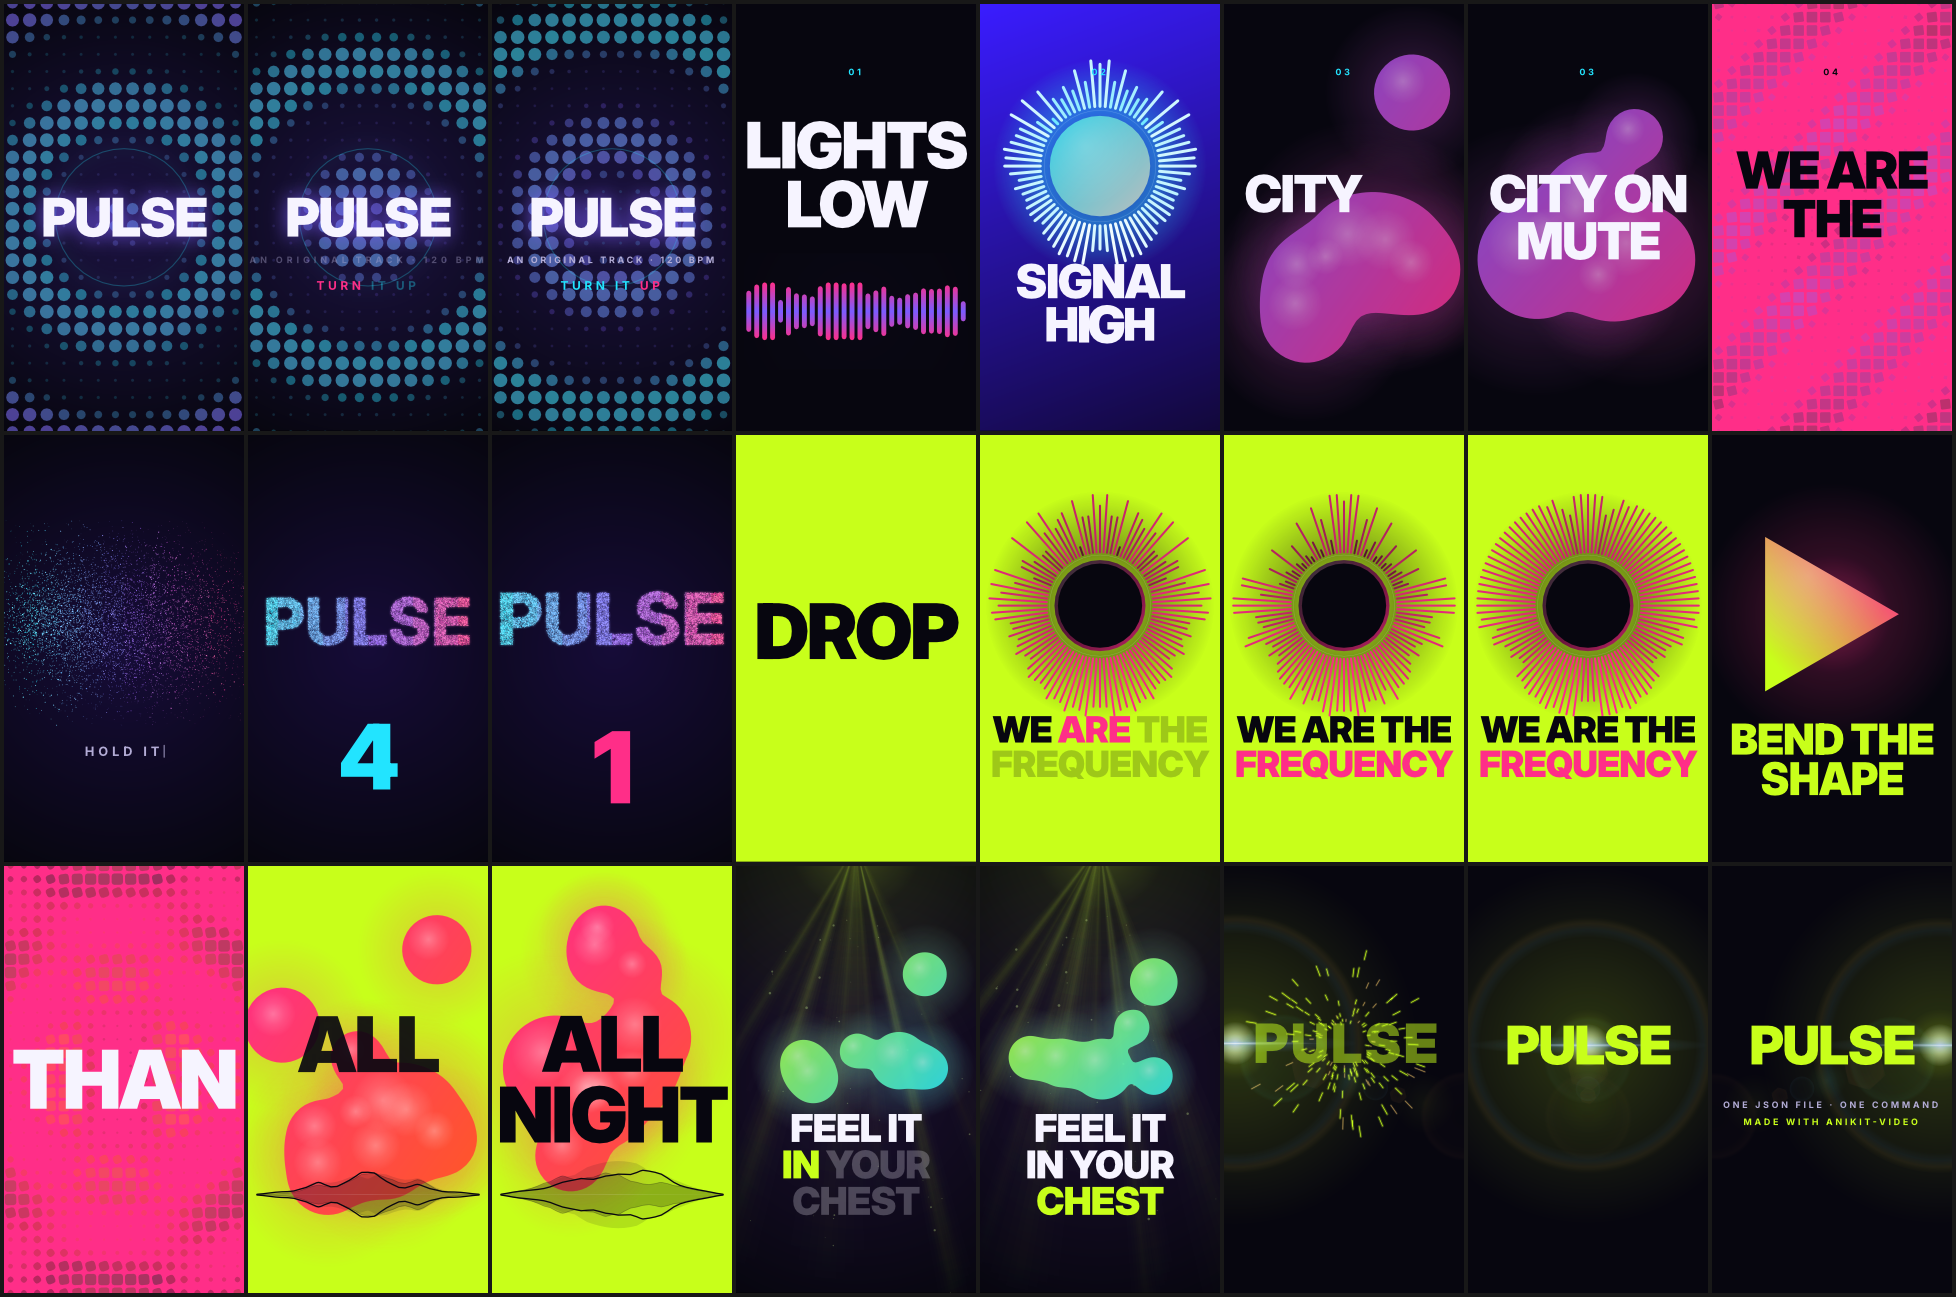
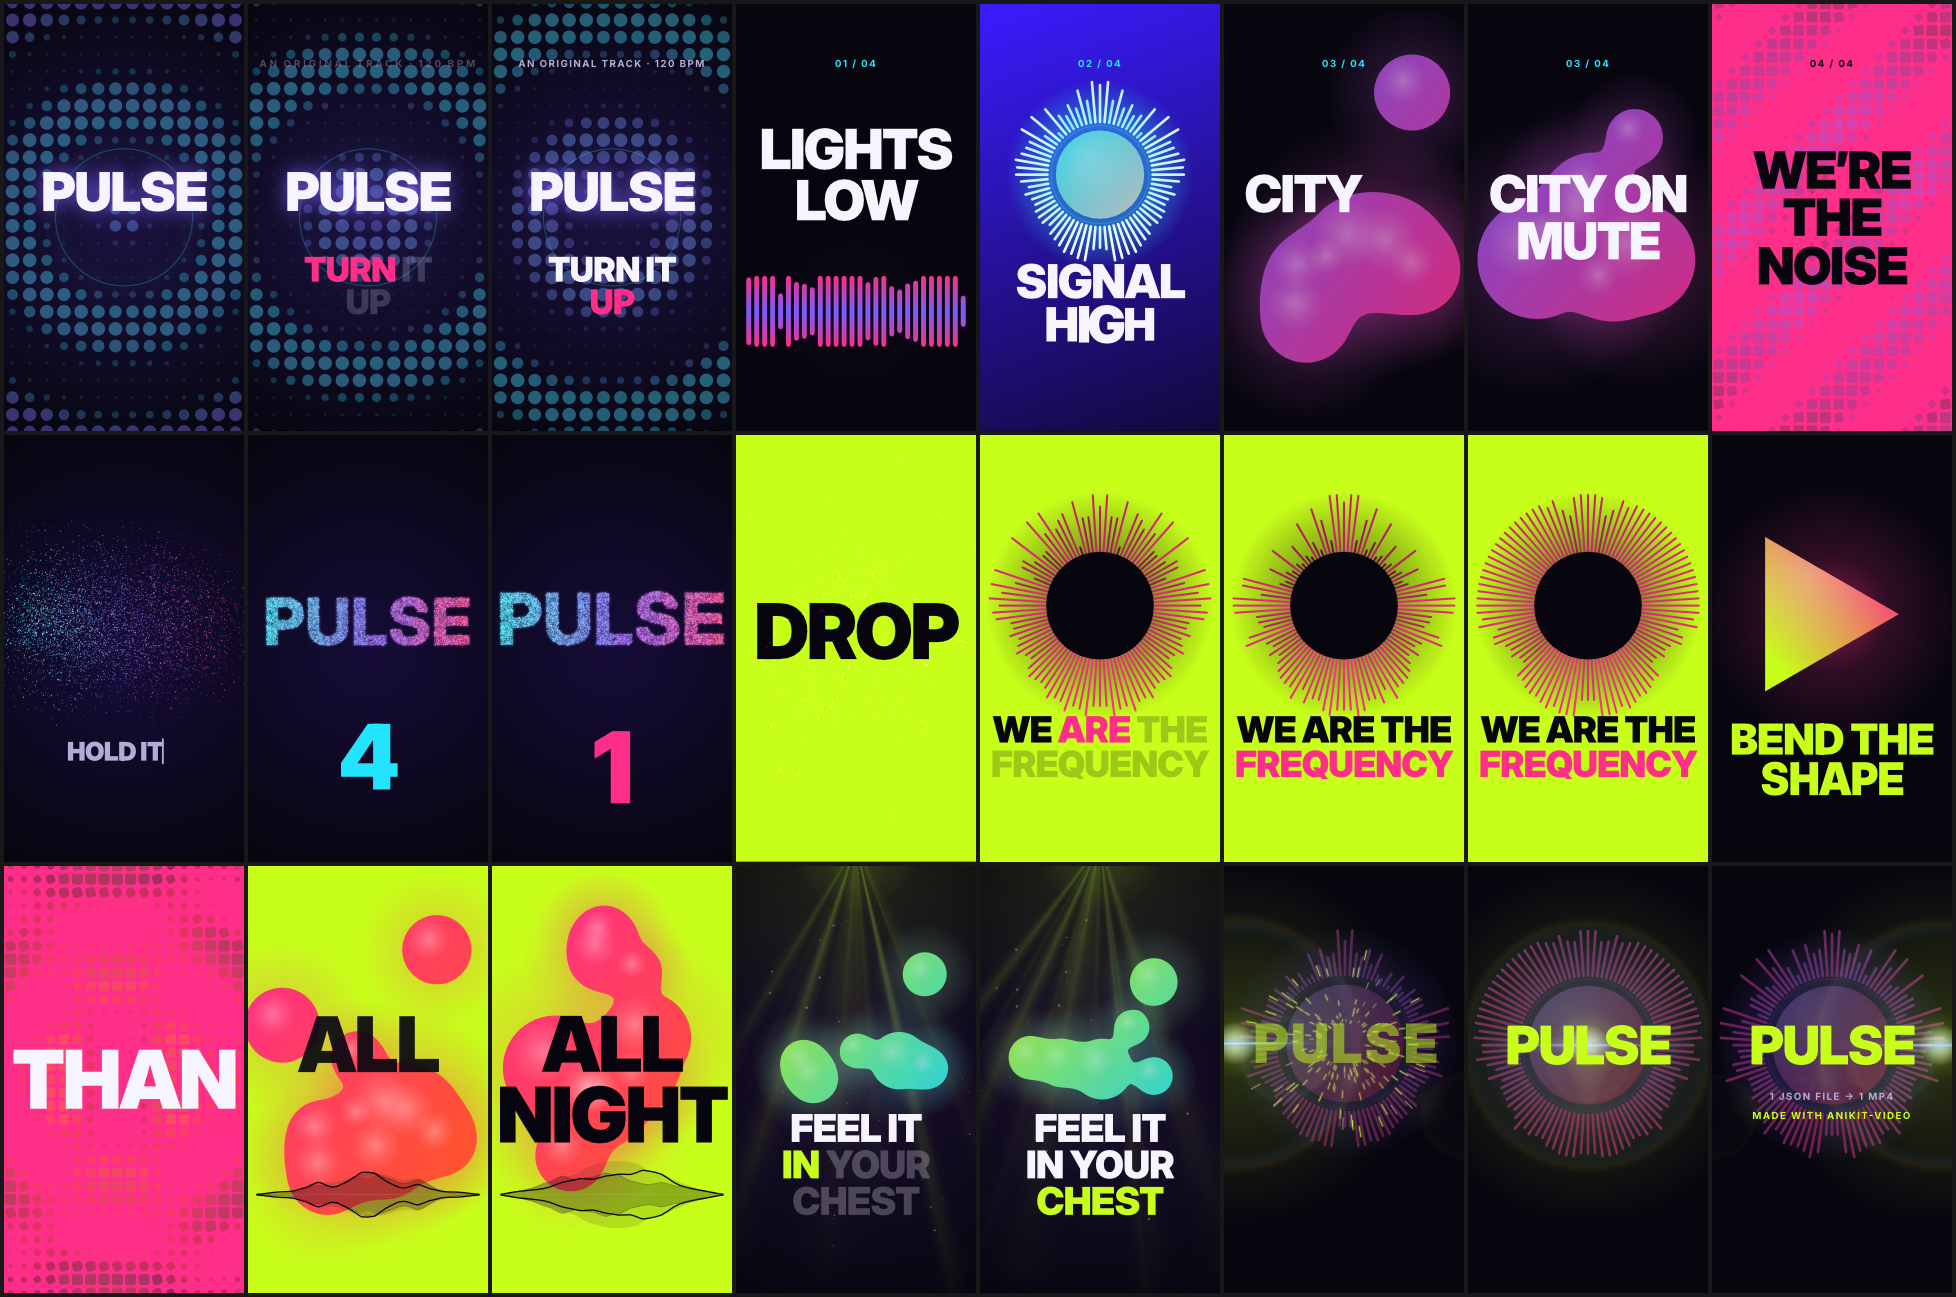
Pulse: design pass 2 (beat-pulsed groups, legible tags, drop sparks), sync audit, README, poster

diff --git a/examples/video/pulse/sync_check.py b/examples/video/pulse/sync_check.py
@@ -1,0 +1,46 @@
+#!/usr/bin/env python3
+"""List every cut and word reveal in spec.json against the detected beat grid.
+
+    python3 examples/video/pulse/sync_check.py   (needs target/release/anikit-video)
+"""
+import json, os, re, subprocess
+
+here = os.path.dirname(os.path.abspath(__file__))
+exe = os.path.join(here, "../../../target/release/anikit-video")
+run = lambda *a: json.loads(subprocess.run([exe, *a, "--json"], cwd=here, capture_output=True, text=True, check=True).stdout)
+b = run("beats", "pulse.flac")
+c = run("check", "spec.json")
+beats, bars = b["beats"], b["downbeats"]
+spec = json.load(open(os.path.join(here, "spec.json")))
+starts = {s["id"]: s["start"] for s in c["scenes"]}
+rows = [(f"cut -> {s['id']}", s["start"]) for s in c["scenes"]]
+
+
+def walk(layers, origin):
+    for l in layers:
+        st = l.get("start", 0)
+        if isinstance(st, str) and st.startswith("@"):
+            k, n, off = re.match(r"@(beat|bar)(\d+)([+-][\d.]+)?", st).groups()
+            t = (beats if k == "beat" else bars)[int(n) - 1] + float(off or 0)
+        else:
+            t = origin + st
+        if "layers" in l:
+            walk(l["layers"], t)
+        kin = l.get("kinetic")
+        if isinstance(kin, dict) and kin.get("stagger") == 0.5:
+            rows.extend((f"word {w!r}", t + 0.5 * i) for i, w in enumerate(l["text"].split()))
+        elif "text" in l and st:
+            rows.append((f"text {l['text'][:14]!r}", t))
+
+
+for s in spec["scenes"]:
+    walk(s["layers"], starts[s["id"]])
+rows.sort(key=lambda r: r[1])
+print(f"bpm {b['bpm']:.2f}")
+worst = 0.0
+for name, t in rows:
+    nb = min(beats, key=lambda x: abs(x - t))
+    d = (t - nb) * 1000
+    worst = max(worst, abs(d))
+    print(f"{t:7.3f}  beat {nb:7.3f}  {d:+6.1f} ms  {name}")
+print(f"{len(rows)} events, max |offset| {worst:.1f} ms (1 frame = 33.3 ms)")

diff --git a/examples/video/pulse/README.md b/examples/video/pulse/README.md
@@ -1,0 +1,65 @@
+# Pulse
+
+A 36-second vertical (1080×1920, 30 fps) kinetic-typography music video, made from one JSON spec and an original soundtrack. There is no browser and no video editor involved.
+
+![poster](poster.png)
+
+| File | What it is |
+|---|---|
+| `spec.json` | The whole video: 12 scenes, about 60 layers, every cut and word placed on the beat with `"@beatN"` / `"@barN"` markers |
+| `soundtrack.py` | Synthesises the track: kick, clap, hats, sidechained saw bass, pad, a lead hook with dotted-eighth echo, a snare-roll build and a riser, at 120 BPM over 18 bars. Pure numpy; ffmpeg converts it to FLAC |
+| `pulse.flac` | The generated soundtrack (3.9 MB) |
+| `sync_check.py` | Lists every cut and word reveal against the detected beat grid |
+| `poster.png`, `sheet.png` | A still at 18.6 s and a 24-frame contact sheet |
+
+## Commands
+
+From the repository root:
+
+```bash
+cargo build --release -p anikit-video
+python3 examples/video/pulse/soundtrack.py                 # regenerate pulse.flac (2 s)
+target/release/anikit-video beats examples/video/pulse/pulse.flac
+target/release/anikit-video check examples/video/pulse/spec.json
+target/release/anikit-video sheet examples/video/pulse/spec.json -o sheet.png --cols 8 --rows 3 --width 240
+target/release/anikit-video render examples/video/pulse/spec.json -o pulse.mp4
+python3 examples/video/pulse/sync_check.py
+```
+
+## Measured
+
+These numbers come from a 4-core cloud VM (Intel Xeon @ 2.10 GHz) using the default `ak264` encoder plus AAC:
+
+| | |
+|---|---|
+| Render wall time | **11.3 s** for 36 s of video (12.0 s including process start and audio analysis) |
+| Render speed | **96 fps** (1080 frames, 3.2× real time) |
+| Output | 33.5 MB MP4 (H.264 1080×1920 + AAC) |
+| Beat detection | 120.0 BPM; the grid is within 4 ms of the true beat |
+| Sync | All 49 cuts and word reveals are within **3.6 ms** of a detected beat (one frame is 33 ms) |
+
+## Structure (bar = 2 s)
+
+| Time | Bars | Music | Picture |
+|---|---|---|---|
+| 0–4 | 1–2 | Filtered kick, pad, lead teaser | `PULSE` glitches in over a beat-pulsing dot grid; "TURN IT UP" karaoke, one word per beat |
+| 4–12 | 3–6 | Verse: kick, bass, claps | One lyric per bar, cut on the downbeat: bars visualizer, radial visualizer, metaballs, diagonal grid; mask, pop, slide and drop styles |
+| 12–16 | 7–8 | Snare roll and riser; the kick drops out on the last beat | `PULSE` forms from 7,000 particles while the camera creeps in; 4·3·2·1 lands on the last four beats |
+| **16** | **9** | **Drop** | The palette flips from violet/cyan night to acid lime with ink and hot pink. The particle word bursts, a shockwave ring fires, the camera shakes and `DROP` pops in |
+| 18–28 | 10–14 | Hook, sidechained bass | Radial visualizer with karaoke, shape morphs on every beat, one word per beat ("LOUDER THAN THE CITY"), metaballs with a waveform |
+| 28–32 | 15–16 | Breakdown | God rays and slow metaballs; "FEEL IT IN YOUR CHEST" karaoke |
+| 32–36 | 17–18 | Final hit and tail | Sparks, a lens-flare sweep and the wordmark; the credits land on beats 69 and 70 |
+
+The camera zoom pulses on every beat with an expression: `"zoom": "=1 + 0.03 * exp(-7 * (gt * 2 - floor(gt * 2)))"`.
+
+## Engine additions made for this film
+
+These are small and additive, with tests and doc lines:
+
+- **Beat markers.** `"@beat17"` and `"@bar9+0.5"` resolve to the beat grid detected in the spec's music track (`src/eval/beat_markers.rs`). The detector's grid is refitted to the onsets, which removed about 60 ms of drift over 36 s.
+- **`anikit-video beats music.wav [--json]`** prints the tempo, beats and bars.
+- **`particle-text`** has two new props:
+  - `blend: "normal"` gives dark particles on a light background;
+  - `stagger: 0` makes the exit a simultaneous burst instead of a left-to-right sweep.
+
+`critique` reports one contrast error at `DROP`. It is a false positive: the critic compares the text with the scene's dark background, but the text sits on the lime layer that slams in at the drop.
